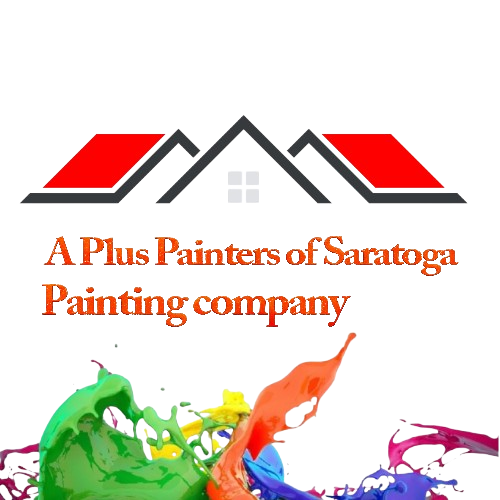
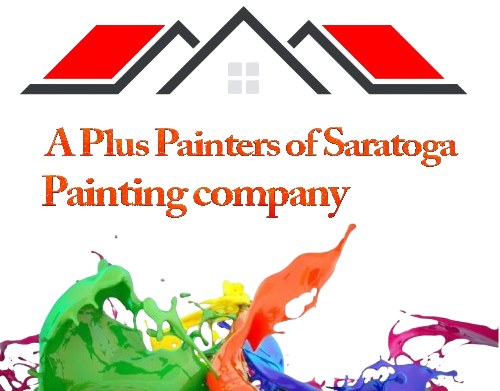
update

diff --git a/About The Company.html b/About The Company.html
@@ -16,6 +16,7 @@
       <a href="Locations.html">Locations</a>
       <a href="About The Company.html">About The Company</a>
       <a href="Contact Us.html">Contact Us</a>
+      <a href="hiring.html">Hiring</a>
     </div>
   </div> 
 </div> 

diff --git a/Contact Us.html b/Contact Us.html
@@ -16,6 +16,7 @@
       <a href="Locations.html">Locations</a>
       <a href="About The Company.html">About The Company</a>
       <a href="Contact Us.html">Contact Us</a>
+      <a href="hiring.html">Hiring</a>
     </div>
   </div> 
 </div> 

diff --git a/Locations.html b/Locations.html
@@ -18,6 +18,7 @@
       <a href="Locations.html">Locations</a>
       <a href="About The Company.html">About The Company</a>
       <a href="Contact Us.html">Contact Us</a>
+      <a href="hiring.html">Hiring</a>
     </div>
   </div> 
 </div>

diff --git a/index.html b/index.html
@@ -18,6 +18,7 @@
       <a href="Locations.html">Locations</a>
       <a href="About The Company.html">About The Company</a>
       <a href="Contact Us.html">Contact Us</a>
+      <a href="hiring.html">Hiring</a>
     </div>
   </div> 
 </div>

diff --git a/projects.html b/projects.html
@@ -18,6 +18,7 @@
       <a href="Locations.html">Locations</a>
       <a href="About The Company.html">About The Company</a>
       <a href="Contact Us.html">Contact Us</a>
+      <a href="hiring.html">Hiring</a>
     </div>
   </div> 
 </div>